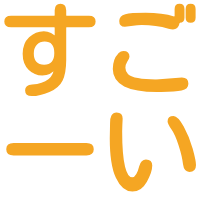
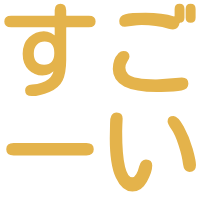
add presets

diff --git a/pages/index.vue b/pages/index.vue
@@ -93,19 +93,49 @@ export default {
           text: 'すご\nーい',
           img: '001_sugo-i.png',
           weight: 'bold',
-          color: '#F5A623FF'
+          color: '#E4B34BFF'
         },
         {
           text: 'おつ\nかれ',
           img: '002_otsukare.png',
           weight: 'bold',
-          color: '#00FF00FF'
+          color: '#59B382FF'
+        },
+        {
+          text: 'なる\nほど',
+          img: '003_naruhodo.png',
+          weight: 'bold',
+          color: '#62C3EBFF'
         },
         {
           text: '神',
-          img: '003_god.png',
+          img: '004_god.png',
+          weight: 'bold',
+          color: '#CF375CFF'
+        },
+        {
+          text: 'ハイ\nサイ',
+          img: '005_haisai.png',
+          weight: 'bold',
+          color: '#E4B34BFF'
+        },
+        {
+          text: '草',
+          img: '006_kusa.png',
+          weight: 'bold',
+          color: '#59B382FF'
+        },
+        {
+          text: 'お大\n事に',
+          img: '007_odaijini.png',
+          weight: 'bold',
+          color: '#62C3EBFF'
+        },
+        {
+          text: '仏',
+          img: '008_hotoke.png',
           weight: 'normal',
-          color: '#000000FF'
+          color: '#CF375CFF'
         }
       ]
     }
